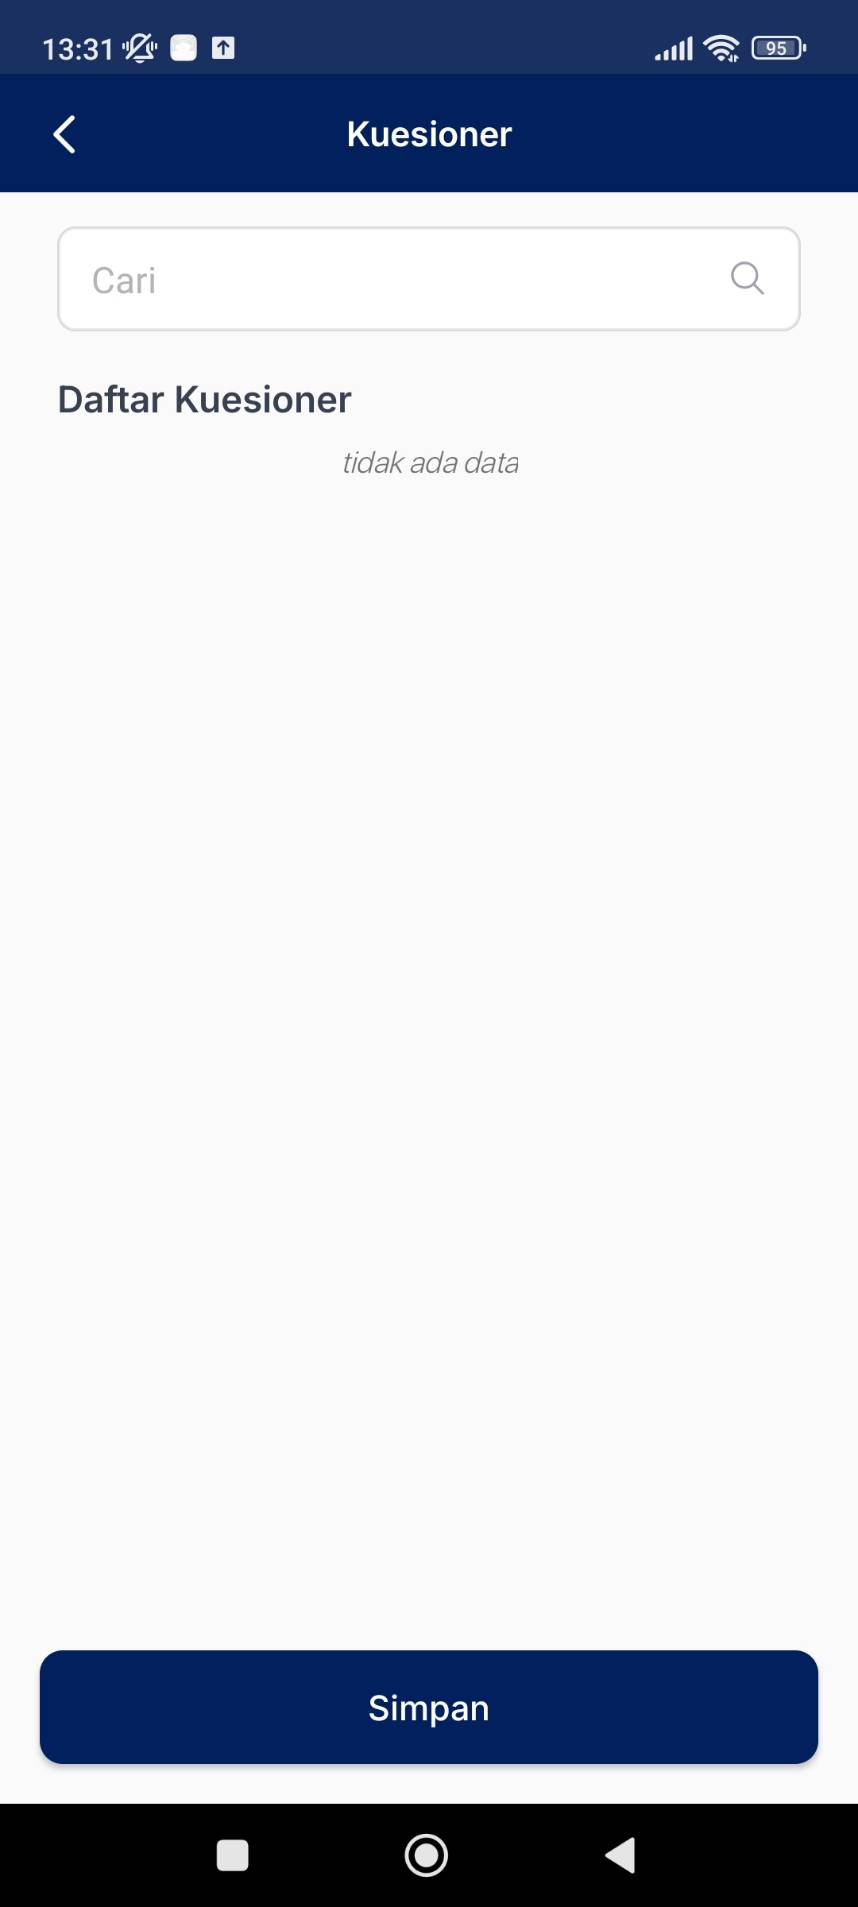
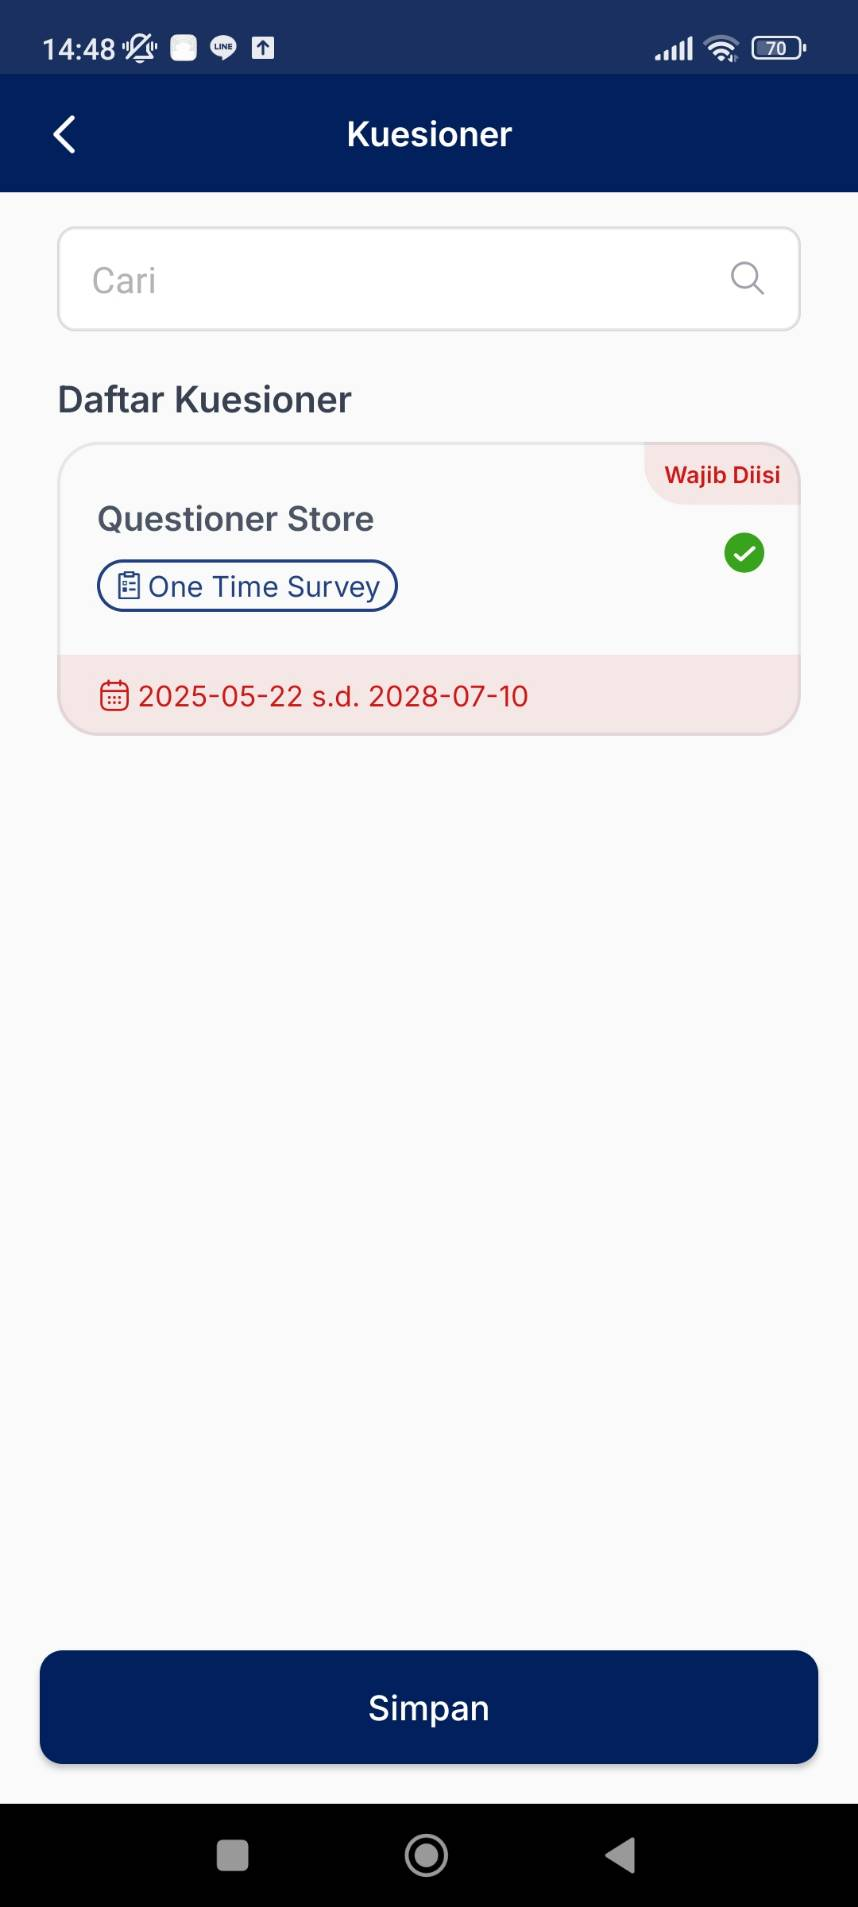
GIT COMMIT

diff --git a/assets/js/projects.js b/assets/js/projects.js
@@ -167,6 +167,11 @@ window.PROJECTS = [
                 desc: { id:'Geotag dan selfie memastikan kunjungan valid.', en:'Geotag plus selfie ensures valid store visits.' }
             },
             {
+                icon: 'tune',
+                title: { id:'Kuestioner fleksibel', en:'Flexible questionnaires' },
+                desc: { id:'Atur dropdown, free text, calendar, foto, dan radio button.', en:'Customize dropdowns, free text, calendar, photo, and radio buttons.' }
+            },
+            {
                 icon: 'local_shipping',
                 title: { id:'Dropping, invoice, retur', en:'Drop, invoice, return' },
                 desc: { id:'Alur distribusi lengkap dari drop barang sampai retur.', en:'Full distribution flow from drops to in-store invoices and returns.' }
@@ -211,6 +216,7 @@ window.PROJECTS = [
             'assets/img/dmsdistributor/Store No Visit.jpg',
             'assets/img/dmsdistributor/Absensi.jpg',
             'assets/img/dmsdistributor/Kuestioner.jpg',
+            'assets/img/dmsdistributor/Kuestioner Detail.jpg',
             'assets/img/dmsdistributor/Inventory Stok.jpg',
             'assets/img/dmsdistributor/Ambil Stok.jpg',
             'assets/img/dmsdistributor/Create Dropping.jpg',
